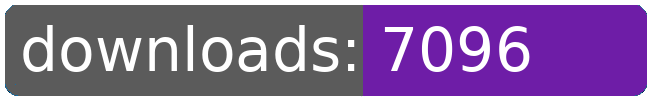
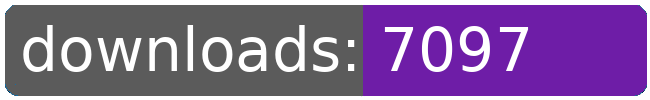
dl log written

Changed region(s): [[0.7692, 0.24, 0.8308, 0.72]]

diff --git a/README.md b/README.md
@@ -21,8 +21,8 @@
 		<td>7063</td>
 		<td>7070</td>
 		<td>7084</td>
-		<td>7096</td>
-		<td>+ 12</td>
+		<td>7097</td>
+		<td>+ 13</td>
 	</tr>
 	<tr>
 		<td>aberrant.kahet.outfitter</td>
@@ -263,8 +263,8 @@
 		<td>4088</td>
 		<td>4097</td>
 		<td>4110</td>
-		<td>4122</td>
-		<td>+ 12</td>
+		<td>4123</td>
+		<td>+ 13</td>
 	</tr>
 	<tr>
 		<td></td>
@@ -274,8 +274,8 @@
 		<td></td>
 		<td></td>
 		<td></td>
-		<td>102022</td>
-		<td>249</td>
+		<td>102024</td>
+		<td>251</td>
 	</tr>
 </table>
 </sub></sup>
@@ -300,8 +300,8 @@
 		<td>7063</td>
 		<td>7070</td>
 		<td>7084</td>
-		<td>7096</td>
-		<td>+ 12</td>
+		<td>7097</td>
+		<td>+ 13</td>
 	</tr>
 	<tr>
 		<td>aberrant.kahet.outfitter</td>
@@ -465,8 +465,8 @@
 		<td>4088</td>
 		<td>4097</td>
 		<td>4110</td>
-		<td>4122</td>
-		<td>+ 12</td>
+		<td>4123</td>
+		<td>+ 13</td>
 	</tr>
 	<tr>
 		<td>purchaseable.androids</td>
@@ -553,8 +553,8 @@
 		<td></td>
 		<td></td>
 		<td></td>
-		<td>102022</td>
-		<td>249</td>
+		<td>102024</td>
+		<td>251</td>
 	</tr>
 </table>
 </sub></sup>
